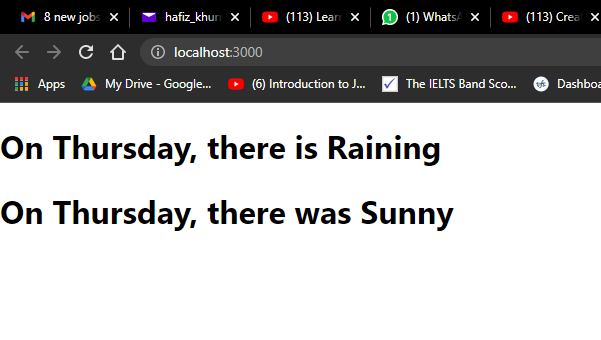
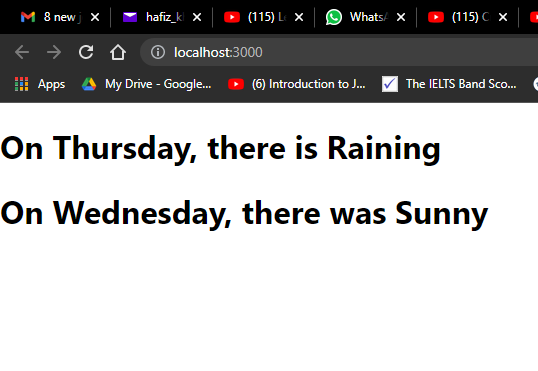
Little Changes

diff --git a/weatherapi/src/Weather.js b/weatherapi/src/Weather.js
@@ -14,7 +14,7 @@ export default class Weather extends Component {
     return (
       <div >
         <h1> On {this.state.day}, there is Raining</h1>
-        <h1> On {this.state.day}, there was Sunny</h1>
+        <h1> On {this.state.yesterday}, there was Sunny</h1>
       </div>
     )
   }
